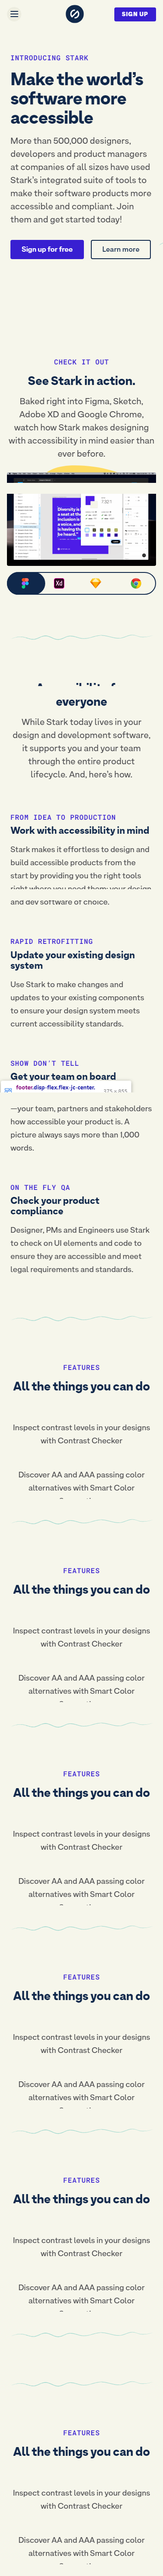
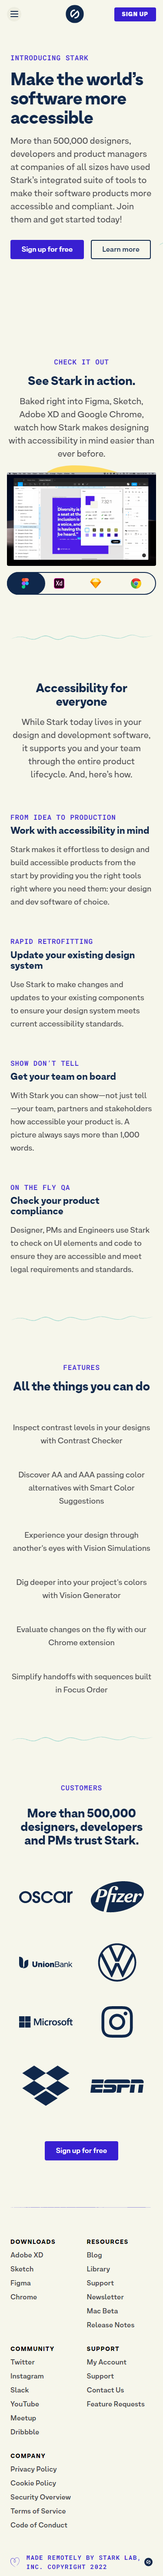
Add navbar

diff --git a/index.html b/index.html
@@ -1,70 +1,77 @@
 <!DOCTYPE html>
 <html lang="en">
-  <head>
-    <meta charset="UTF-8" />
-    <meta http-equiv="X-UA-Compatible" content="IE=edge" />
-    <meta name="viewport" content="width=device-width, initial-scale=1.0" />
-    <link rel="stylesheet" href="./css/style.css" />
-    <title>Stark</title>
-  </head>
-  <body>
-    <nav class="navbar navbar-expand-lg bg-ivoryWhite fixed-top">
-      <div class="container-fluid container-lg">
-        <button
-          class="navbar-toggler"
-          type="button"
-          data-bs-toggle="offcanvas"
-          data-bs-target="#offcanvasNavbar"
-          aria-controls="offcanvasNavbar"
-        >
-          <span class="navbar-toggler-icon"></span>
-        </button>
 
-        <a class="navbar-brand" href="#">
-          <svg
-            width="32"
-            height="32"
-            viewBox="0 0 64 64"
-            fill="none"
-            xmlns="http://www.w3.org/2000/svg"
-            aria-labelledby="starkLogoNavigation"
-            class="t-color-blue"
-          >
-            <title id="starkLogoNavigation" lang="en">Stark logo</title>
-            <rect width="64" height="64" rx="32" fill="currentColor"></rect>
-            <path
-              fill-rule="evenodd"
-              clip-rule="evenodd"
-              d="M31.0399 47.9701V43.1582C34.3333 43.4448 37.5845 42.2588 39.9196 39.919C43.6395 36.1988 44.2697 30.3917 41.4344 25.9603L25.9596 41.4337L22.5097 44.8833C21.8636 44.406 21.254 43.881 20.6862 43.3128C14.4379 37.0651 14.4379 26.9352 20.6862 20.6871C23.92 17.4463 28.39 15.7502 32.9599 16.0298V20.8418C29.6666 20.5552 26.4154 21.7412 24.0803 24.0809C20.3604 27.8011 19.7302 33.6082 22.5655 38.0397L38.0402 22.5665L41.4903 19.1169C42.1364 19.5942 42.746 20.1192 43.3138 20.6874C49.5621 26.9351 49.5621 37.065 43.3138 43.3131C40.0799 46.5539 35.6099 48.2499 31.0399 47.9701Z"
-              fill="white"
-            ></path>
-          </svg>
-        </a>
+<head>
+  <meta charset="UTF-8" />
+  <meta http-equiv="X-UA-Compatible" content="IE=edge" />
+  <meta name="viewport" content="width=device-width, initial-scale=1.0" />
+  <link rel="stylesheet" href="./css/style.css" />
+  <title>Stark</title>
+</head>
 
-        <div
-          class="offcanvas w-100 mt-5 offcanvas-start bg-ivoryWhite"
-          tabindex="-1"
-          id="offcanvasNavbar"
-          data-bs-backdrop="false"
-          aria-labelledby="offcanvasNavbarLabel"
-        >
-          <div class="offcanvas-header"></div>
-          <div class="offcanvas-body">
-            <ul class="navbar-nav justify-content-end flex-grow-1">
-              <li class="nav-item">
-                <a class="nav-link" href="#">Home</a>
-              </li>
-              <li class="nav-item">
-                <a class="nav-link" href="#">Link</a>
-              </li>
-            </ul>
-          </div>
-        </div>
+<body>
+  <header class="navbar navbar-expand-lg bg-ivoryWhite sticky-top">
+    <nav class="container-fluid container-lg bd-gutter" aria-label="Main navigation">
 
-        <button>sign up</button>
+      <!-- Hamburger button -->
+      <div class="menu-btn" data-bs-toggle="offcanvas" data-bs-target="#offcanvasNavbar"
+        aria-controls="offcanvasNavbar">
+        <div class="menu-btn--hamburger"></div>
       </div>
-    </nav>
 
-    <script src="./node_modules/bootstrap/dist/js/bootstrap.min.js"></script>
-  </body>
+      <!-- Stark Logo -->
+      <a class="navbar-brand" href="#" aria-label="starkLogo">
+        <svg width="42" height="42" viewBox="0 0 64 64" fill="none" xmlns="http://www.w3.org/2000/svg"
+          aria-labelledby="starkLogoNavigation" class="t-color-blue">
+          <title id="starkLogoNavigation" lang="en">Stark logo</title>
+          <rect width="64" height="64" rx="32" fill="currentColor"></rect>
+          <path fill-rule="evenodd" clip-rule="evenodd"
+            d="M31.0399 47.9701V43.1582C34.3333 43.4448 37.5845 42.2588 39.9196 39.919C43.6395 36.1988 44.2697 30.3917 41.4344 25.9603L25.9596 41.4337L22.5097 44.8833C21.8636 44.406 21.254 43.881 20.6862 43.3128C14.4379 37.0651 14.4379 26.9352 20.6862 20.6871C23.92 17.4463 28.39 15.7502 32.9599 16.0298V20.8418C29.6666 20.5552 26.4154 21.7412 24.0803 24.0809C20.3604 27.8011 19.7302 33.6082 22.5655 38.0397L38.0402 22.5665L41.4903 19.1169C42.1364 19.5942 42.746 20.1192 43.3138 20.6874C49.5621 26.9351 49.5621 37.065 43.3138 43.3131C40.0799 46.5539 35.6099 48.2499 31.0399 47.9701Z"
+            fill="white"></path>
+        </svg>
+      </a>
+
+      <!-- Offcanvas -->
+      <div class="offcanvas w-100 mt-5 mt-lg-0 offcanvas-start bg-ivoryWhite" tabindex="-1" id="offcanvasNavbar"
+        data-bs-backdrop="false" aria-labelledby="offcanvasNavbarLabel">
+        <div class="offcanvas-body">
+          <ul class="navbar-nav justify-content-start flex-grow-1">
+            <li class="nav-item">
+              <a class="nav-link" href="#">Pricing</a>
+            </li>
+            <li class="nav-item">
+              <a class="nav-link" href="#">Blog</a>
+            </li>
+            <li class="nav-item">
+              <a class="nav-link" href="#">Community</a>
+            </li>
+            <li class="nav-item">
+              <a class="nav-link" href="#">Library</a>
+            </li>
+            <li class="nav-item">
+              <a class="nav-link" href="#">Support</a>
+            </li>
+            <li class="nav-item">
+              <a class="nav-link" href="#">Mac beta</a>
+            </li>
+            <li class="nav-item">
+              <a class="nav-link" href="#">Log in</a>
+            </li>
+          </ul>
+        </div>
+      </div>
+
+      <!-- Sign up button -->
+      <a type="button" class="btn link--button bg-interdimensionalBlue text-uppercase text-white">
+        Sign up
+      </a>
+    </nav>
+  </header>
+
+
+
+  <script src="./node_modules/bootstrap/dist/js/bootstrap.min.js"></script>
+  <script src="./script.js"></script>
+</body>
+
 </html>

diff --git a/css/style.css b/css/style.css
@@ -11280,4 +11280,50 @@ textarea.form-control-lg {
 }
 body {
   font-family: "ArminGrotesk", sans-serif;
-}/*# sourceMappingURL=style.css.map */
+}
+
+.menu-btn {
+  position: relative;
+  display: flex;
+  justify-content: center;
+  align-items: center;
+  width: 33px;
+  height: 33px;
+  border-radius: 50%;
+  background-color: #edeedf;
+}
+.menu-btn--hamburger {
+  width: 18px;
+  height: 2px;
+  background-color: #11284b;
+}
+.menu-btn--hamburger::before, .menu-btn--hamburger::after {
+  content: "";
+  position: absolute;
+  width: 18px;
+  height: 2px;
+  background-color: #11284b;
+  transition: all 0.2s ease-in-out;
+}
+.menu-btn--hamburger::before {
+  transform: translateY(-6px);
+}
+.menu-btn--hamburger::after {
+  transform: translateY(6px);
+}
+
+.isToggled .menu-btn--hamburger {
+  background: transparent;
+}
+.isToggled .menu-btn--hamburger::before {
+  transform: rotate(135deg);
+}
+.isToggled .menu-btn--hamburger::after {
+  transform: rotate(-135deg);
+}
+
+.link--button {
+  font-size: 13px;
+  line-height: 1;
+  font-weight: 700;
+}

diff --git a/scss/components/_header.scss b/scss/components/_header.scss
@@ -1,0 +1,52 @@
+.menu-btn {
+  position: relative;
+  display: flex;
+  justify-content: center;
+  align-items: center;
+  width: 33px;
+  height: 33px;
+  border-radius: 50%;
+  background-color: #edeedf;
+
+  &--hamburger {
+    width: 18px;
+    height: 2px;
+    background-color: $catalinaBlue;
+  }
+
+  &--hamburger::before,
+  &--hamburger::after {
+    content: "";
+    position: absolute;
+    width: 18px;
+    height: 2px;
+    background-color: $catalinaBlue;
+    transition: all 0.2s ease-in-out;
+  }
+
+  &--hamburger::before {
+    transform: translateY(-6px);
+  }
+
+  &--hamburger::after {
+    transform: translateY(6px);
+  }
+}
+
+.isToggled .menu-btn {
+  &--hamburger {
+    background: transparent;
+  }
+  &--hamburger::before {
+    transform: rotate(135deg);
+  }
+  &--hamburger::after {
+    transform: rotate(-135deg);
+  }
+}
+
+.link--button {
+    font-size: 13px;
+    line-height: 1;
+    font-weight: 700;
+}

diff --git a/scss/_custom.scss b/scss/_custom.scss
@@ -2,6 +2,13 @@
 @import "../node_modules/bootstrap/scss/functions";
 @import "../node_modules/bootstrap/scss/variables";
 
+$ivoryWhite: #f6f6eb;
+$interdimensionalBlue: #381fd1;
+$dandelionYellow: #fedb62;
+$catalinaBlue: #11284b;
+$darkLiver: #4b4b4e;
+$bitterSweet: #fc6f6b;
+
 // Colors
 $custom-theme-colors: (
   "ivoryWhite": #f6f6eb,

diff --git a/script.js b/script.js
@@ -1,0 +1,7 @@
+const hamburgerIcon = document.querySelector(".menu-btn");
+
+hamburgerIcon.addEventListener("click", isToggledMenu);
+
+function isToggledMenu() {
+  hamburgerIcon.classList.toggle("isToggled");
+}

diff --git a/scss/style.scss b/scss/style.scss
@@ -2,3 +2,4 @@
 @import "./fonts";
 
 @import "./components/common";
+@import "./components/header";
